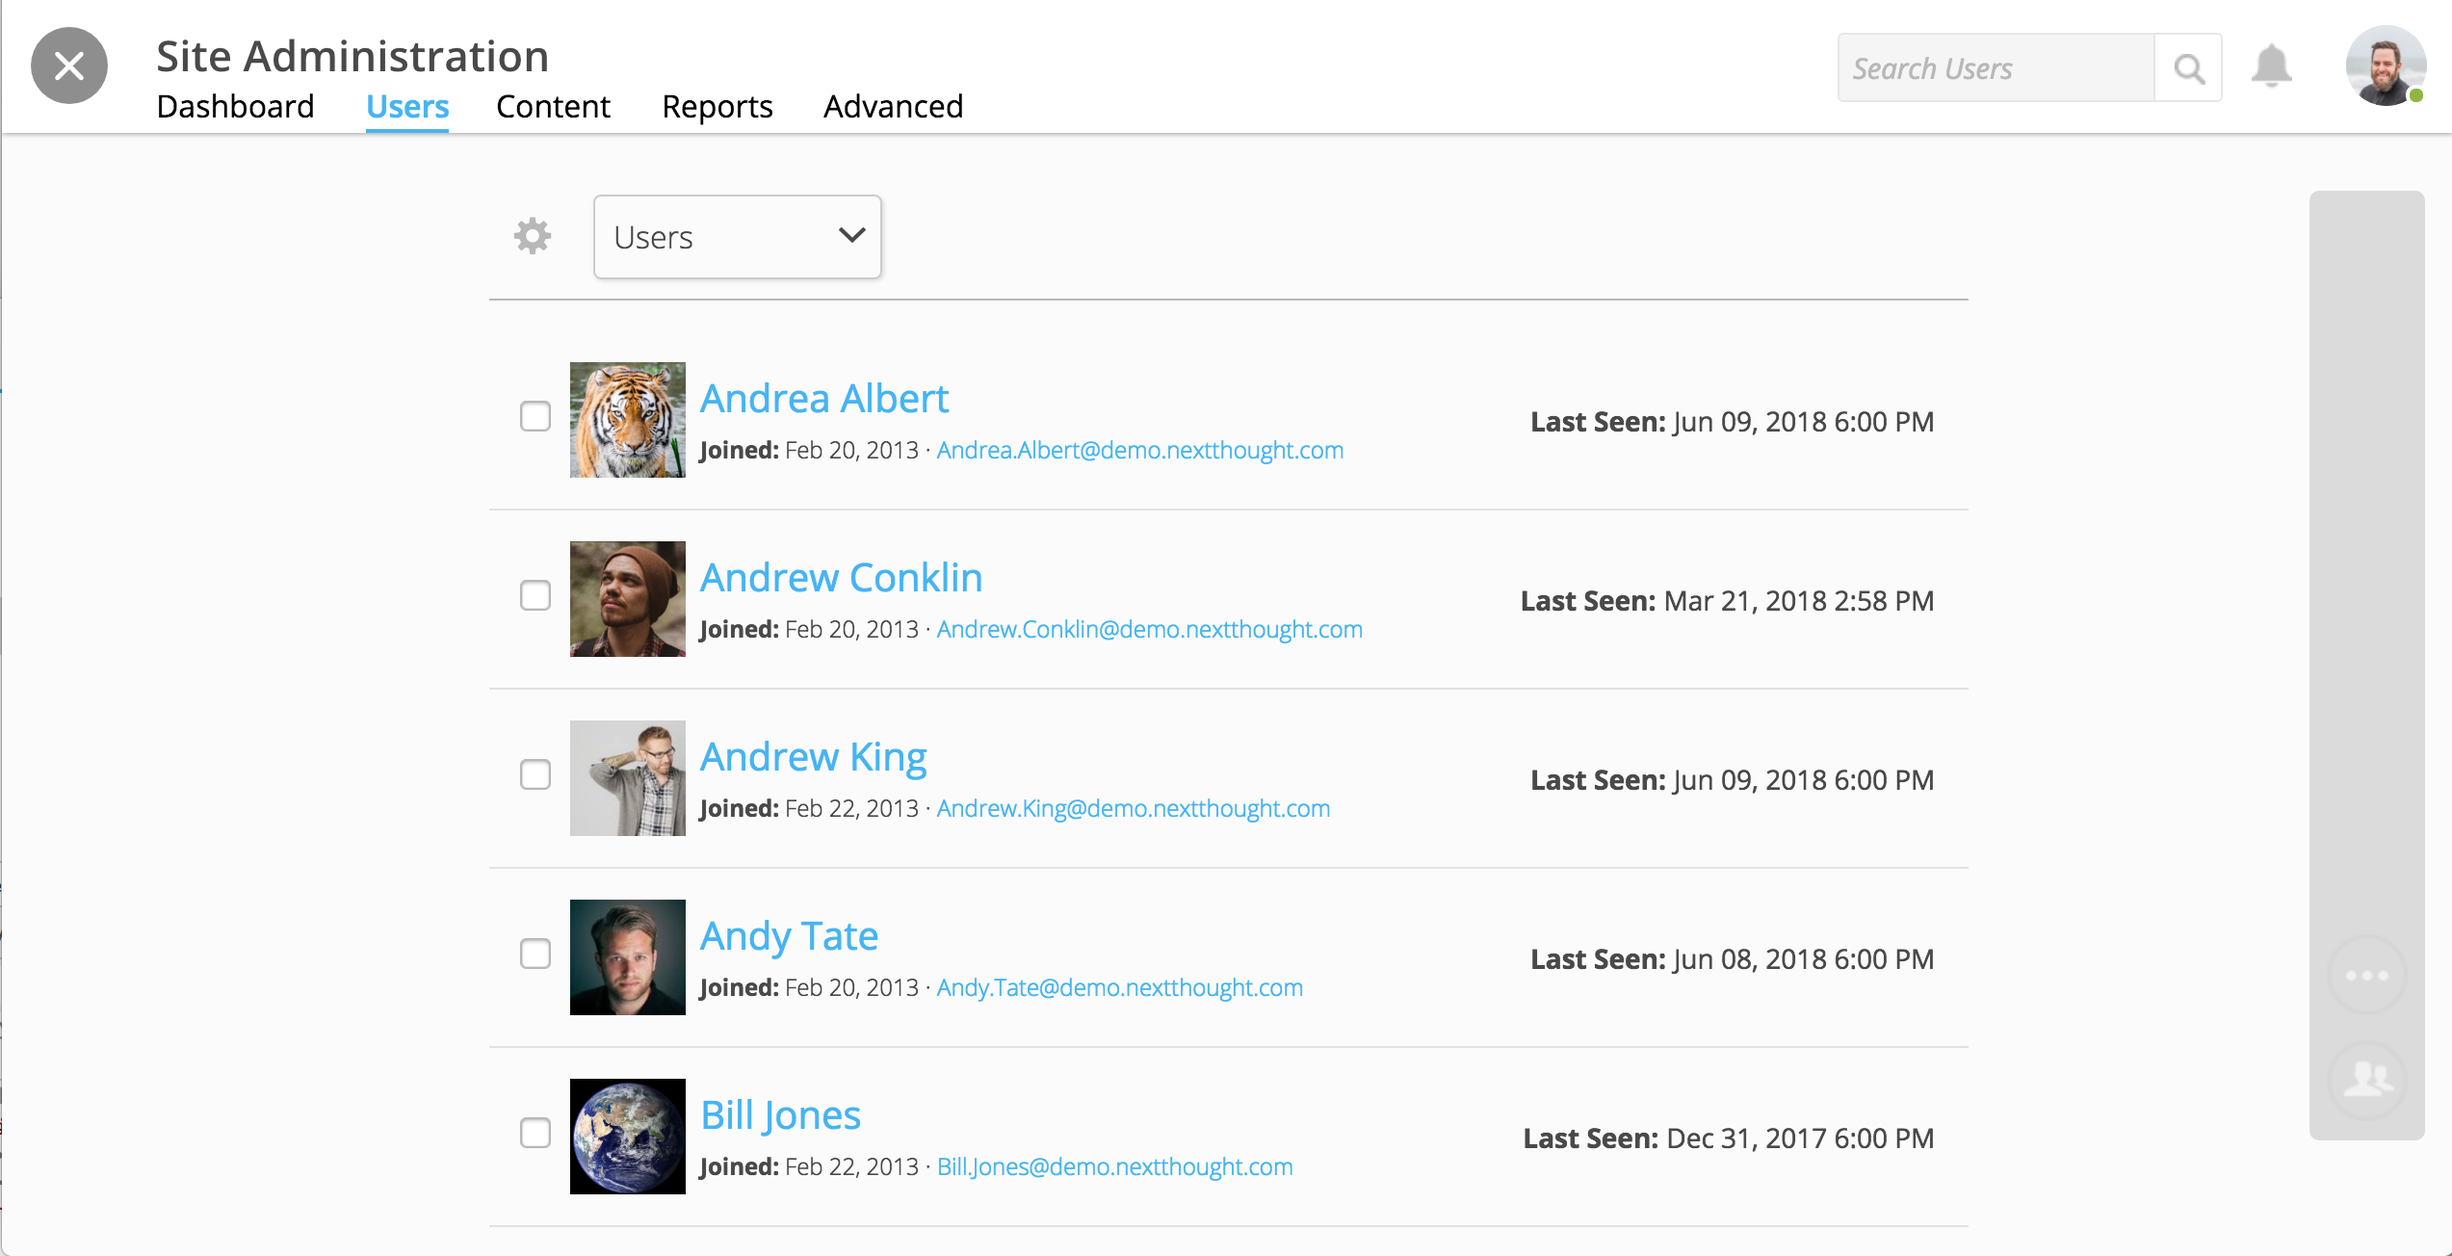
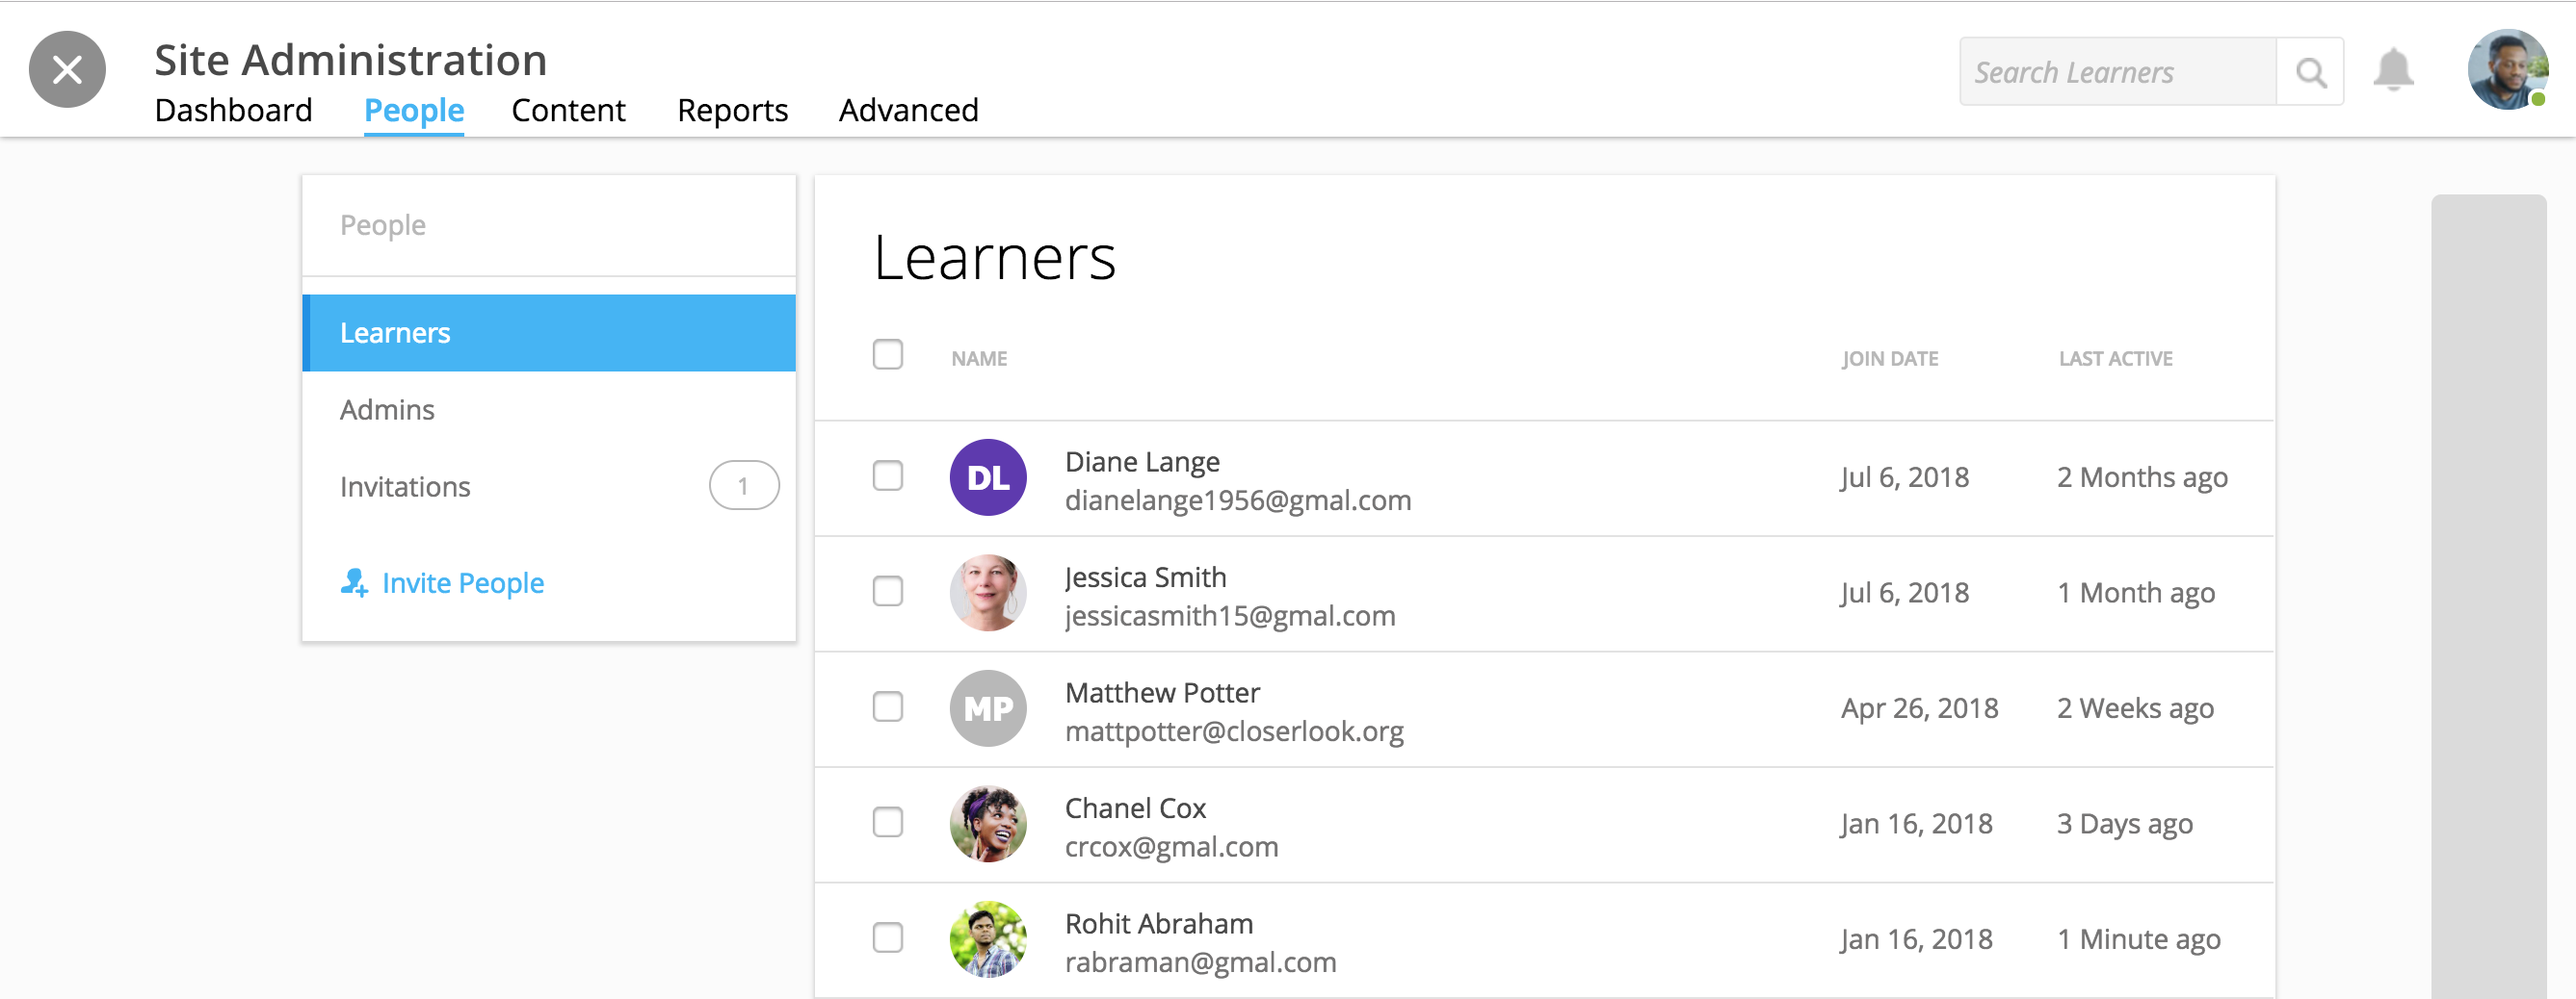
updated people tab in admin tools

diff --git a/adminguide/managesiteusers.rst b/adminguide/managesiteusers.rst
@@ -8,9 +8,9 @@ Search, view, and manage all site users within your admin tools. View learner ac
 
 .. image:: images/adminbutton2.png
 
-2. Click on the "Users" tab.
+2. Click on the "People" tab.
 
-The **Users Tab** offers a list of all users on the site. Click in the "Search Users" field in the upper right-hand corner to find an learner. Begin typing a name to view results.
+The **People Tab** offers a list of all users on the site. Click in the "Search Learners" field in the upper right-hand corner to find an learner. Begin typing a name to view results.
 
 .. image:: images/adminusers.png
 
@@ -18,27 +18,68 @@ The **Users Tab** offers a list of all users on the site. Click in the "Search U
 Manage Site Admin
 =================
 
-Site admins have access to admin tools, can manage site courses and learners, and award credit.
+**Site admins** have access to admin tools, can create courses, manage site courses and learners, view reports, award credit, integrate with other services, and invite people to join the platform.
 
 **To add a site admin:**
 
-1. Select your "Users" tab in the admin tools.
+1. Select your "People" tab in the admin tools.
 2. Search for a site user in the upper right-hand corner, and select the check box next to the user's name.
-3. Click the gear icon and "Set as Admin."
-4. Confirm your selection.
+3. Click "Change Role."
 
-.. image:: images/setasadmin.png
+.. image:: images/adminchangerole.png
 
-.. note:: If currently logged in, a new admin may need to refresh their browser to view their admin tools.
+4. Select "Administrator."
+5. Select "Save."
+
+.. image:: images/adminchangerolemenu.png
+
+If you want to invite an individual to the platform as an admin that does not yet have an account, see the "Invite User to Platform" directions below.
+
+.. note:: If currently logged in, a new admin may need to refresh their browser to view their admin tools. 
+
 
 **To remove a site admin:**
 
-1. Select your "Users" tab in the admin tools.
-2. Select the dropdown, and select "Site Admins."
-3. Click "Remove as site admin" text under the admin you'd like to revoke admin access.
-4. Confirm removal.
+1. Select your "People" tab in the admin tools.
+2. Select the "Admins" view.
+3. Search for the admin in the upper right-hand corner, and select the check box next to the admin's name.
+4. Click "Change Role."
+5. Select "Learner."
+6. Select "Save."
 
-.. image:: images/adminremove.png
+.. image:: images/adminadminview.png
+
+Invite User to the Platform
+============================
+
+Administrators can invite learners or admins to the platform. 
+
+**To invite learners and admins to the platform:**
+
+1. Visit the "People" tab.
+2. Select "Invite People."
+
+.. image:: images/invitepeoplebutton.png
+
+3. Add the email address(es) and assign a role.
+
+.. note:: If you assign an individual as an "Administrator," they will immediately have admin access upon account creation.
+
+4. Write a personal message.
+5. Click "Send."
+
+NextThought will send your message along with a link to create an account.
+
+.. image:: images/platforminvite.png
+
+**To view invitation statuses:**
+
+1. Visit the "People" tab.
+2. Select "Invitations."
+
+Here you can view the invite date and status of all those invited to the platform. 
+
+.. image:: images/admininvitestatus.png
 
 
 Learner Overview

diff --git a/userguide/Getting_Started.rst b/userguide/Getting_Started.rst
@@ -1,7 +1,5 @@
 .. raw:: html
 
-<video controls src="videos/welcome.mp4"></video>
-
 =============================================
 Welcome to Your Course!
 =============================================
